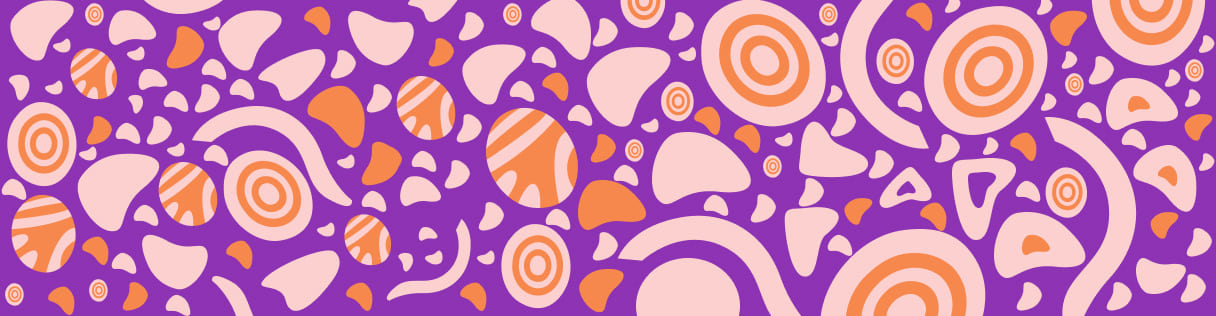
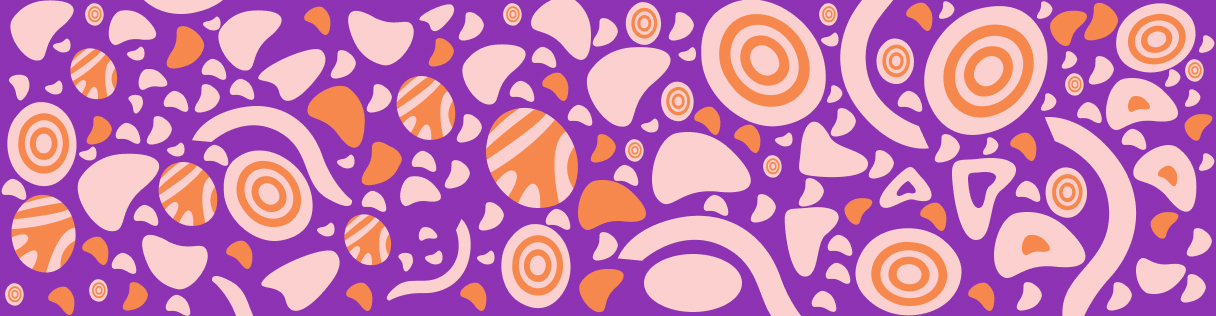
Update

diff --git a/src/scss/index/_indexHeader.scss b/src/scss/index/_indexHeader.scss
@@ -97,12 +97,12 @@
             top: 0;
             left: 0;
             z-index: 2;
-            width: calc(3282px * 15);
-            height: calc(3282px * 15);
+            width: calc(1836px * 33);
+            aspect-ratio: 4.098;
             animation: decor1 200s infinite linear;
             content: "";
 
-            @include bg("/media/animate/decor-1.jpg", 1500px auto, left top, repeat);
+            @include bg("/media/animate/decor-1.jpg", 918px auto, left top, repeat);
 
             & {
                 background-color: #0f9296;
@@ -114,7 +114,7 @@
                 }
 
                 100% {
-                    transform: translate(-50%, -15%);
+                    transform: translate(-50%, -50%);
                 }
             }
         }
@@ -156,12 +156,12 @@
             position: absolute;
             top: 50px;
             left: 0;
-            width: calc(1385px * 30);
-            height: 300px;
+            width: calc(1218px * 40);
+            aspect-ratio: 2.306;
             animation: decor2 200s infinite linear;
             content: "";
 
-            @include bg("/media/animate/decor-2.jpg", auto 100%, left top, repeat-x);
+            @include bg("/media/animate/decor-2.jpg", 609px auto, left top, repeat);
 
             @keyframes decor2 {
                 0% {
@@ -213,13 +213,13 @@
             bottom: 0;
             left: 0;
             z-index: 2;
-            width: calc(3090px * 18);
-            height: calc(3090px * 12);
+            width: calc(3090px * 20);
+            aspect-ratio: 3.848;
             animation: decor3 200s infinite linear;
             content: "";
             will-change: transform;
 
-            @include bg("/media/animate/decor-3.jpg", 1500px, left top, repeat);
+            @include bg("/media/animate/decor-3.jpg", 1545px auto, left top, repeat);
 
             @keyframes decor3 {
                 0% {
@@ -227,7 +227,7 @@
                 }
 
                 100% {
-                    transform: translate(-50%, 30%);
+                    transform: translate(-50%, 50%);
                 }
             }
         }
@@ -272,10 +272,10 @@
             top: 0;
             right: 0;
             z-index: 2;
-            width: calc(2100px * 8);
-            height: calc(800px * 8);
+            width: calc(2100px * 32);
+            height: calc(800px * 20);
             transform: rotate(-20deg);
-            animation: decor4 64s infinite linear;
+            animation: decor4 200s infinite linear;
             content: "";
             will-change: transform;
 
@@ -287,7 +287,7 @@
                 }
 
                 100% {
-                    transform: translate(50%, -50%) rotate(-20deg);
+                    transform: translate(30%, -70%) rotate(-20deg);
                 }
             }
         }
